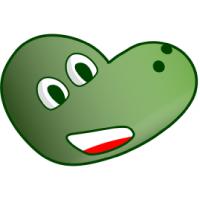
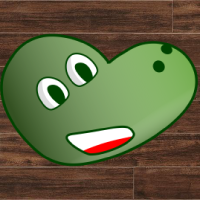
fixed snake stylies

diff --git a/src/components/Tile.jsx b/src/components/Tile.jsx
@@ -31,9 +31,12 @@ export default class Tile extends Component {
         image = "snakeLeft.png"
     }
     return (
-      <div className="tile">
-        {letterInTile !== null ? letterInTile : <img src={require(`../images/${image}`)} alt="some thing"/>}
-      </div>
+        <div>
+        {letterInTile !== null
+            ? <div className="lettered-tile">{letterInTile}</div>
+            : <div className="tile"><img src={require(`../images/${image}`)} alt="some thing"/></div>
+        }
+        </div>
     );
   }
 }

diff --git a/src/Game.css b/src/Game.css
@@ -30,10 +30,16 @@
     align-items: center;
 }
 
-.tile {
+.tile, .lettered-tile {
     width: 30px;
     height: 100%;
-    border: 1px grey solid;
+    display: flex;
+    align-items: center;
+    justify-content: center;
+}
+
+.lettered-tile {
+    background-image: url("./images/woodTileLight.png");
 }
 
 .tile img {
@@ -56,7 +62,6 @@
         background-color: none;
     } */
     50% {
-        /* opacity: 0; */
         background-color: limegreen;
     }
     /* 75% {
